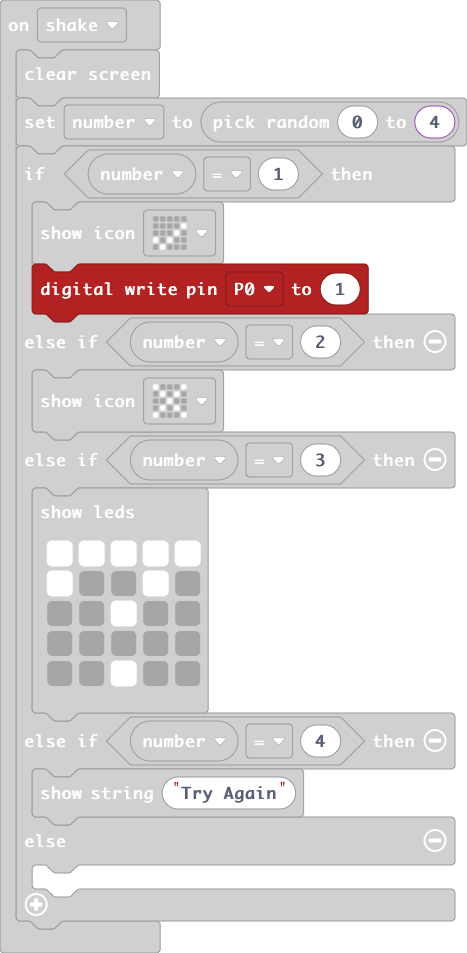
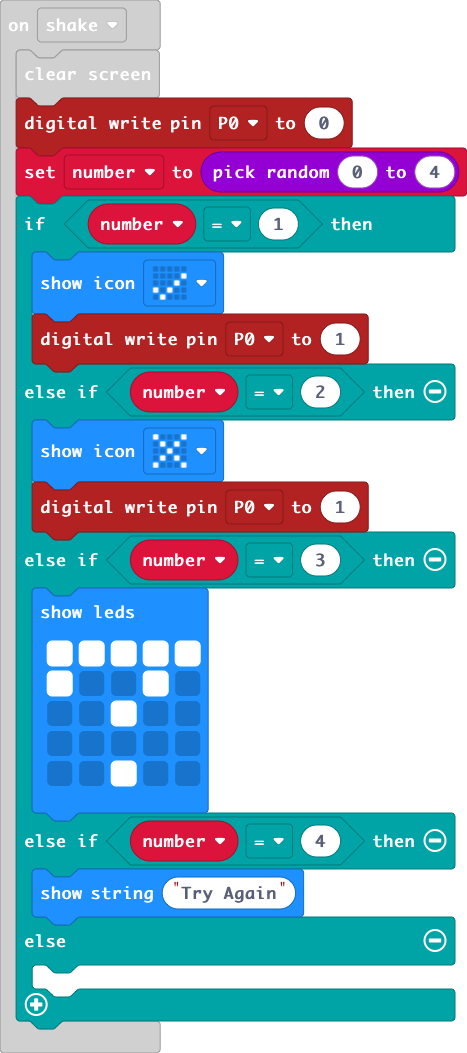
Update main.blocks, main.ts

diff --git a/main.ts b/main.ts
@@ -1,12 +1,14 @@
 let number = 0
 input.onGesture(Gesture.Shake, function () {
     basic.clearScreen()
+    pins.digitalWritePin(DigitalPin.P0, 0)
     number = randint(0, 4)
     if (number == 1) {
         basic.showIcon(IconNames.Yes)
         pins.digitalWritePin(DigitalPin.P0, 1)
     } else if (number == 2) {
         basic.showIcon(IconNames.No)
+        pins.digitalWritePin(DigitalPin.P0, 1)
     } else if (number == 3) {
         basic.showLeds(`
             # # # # #
